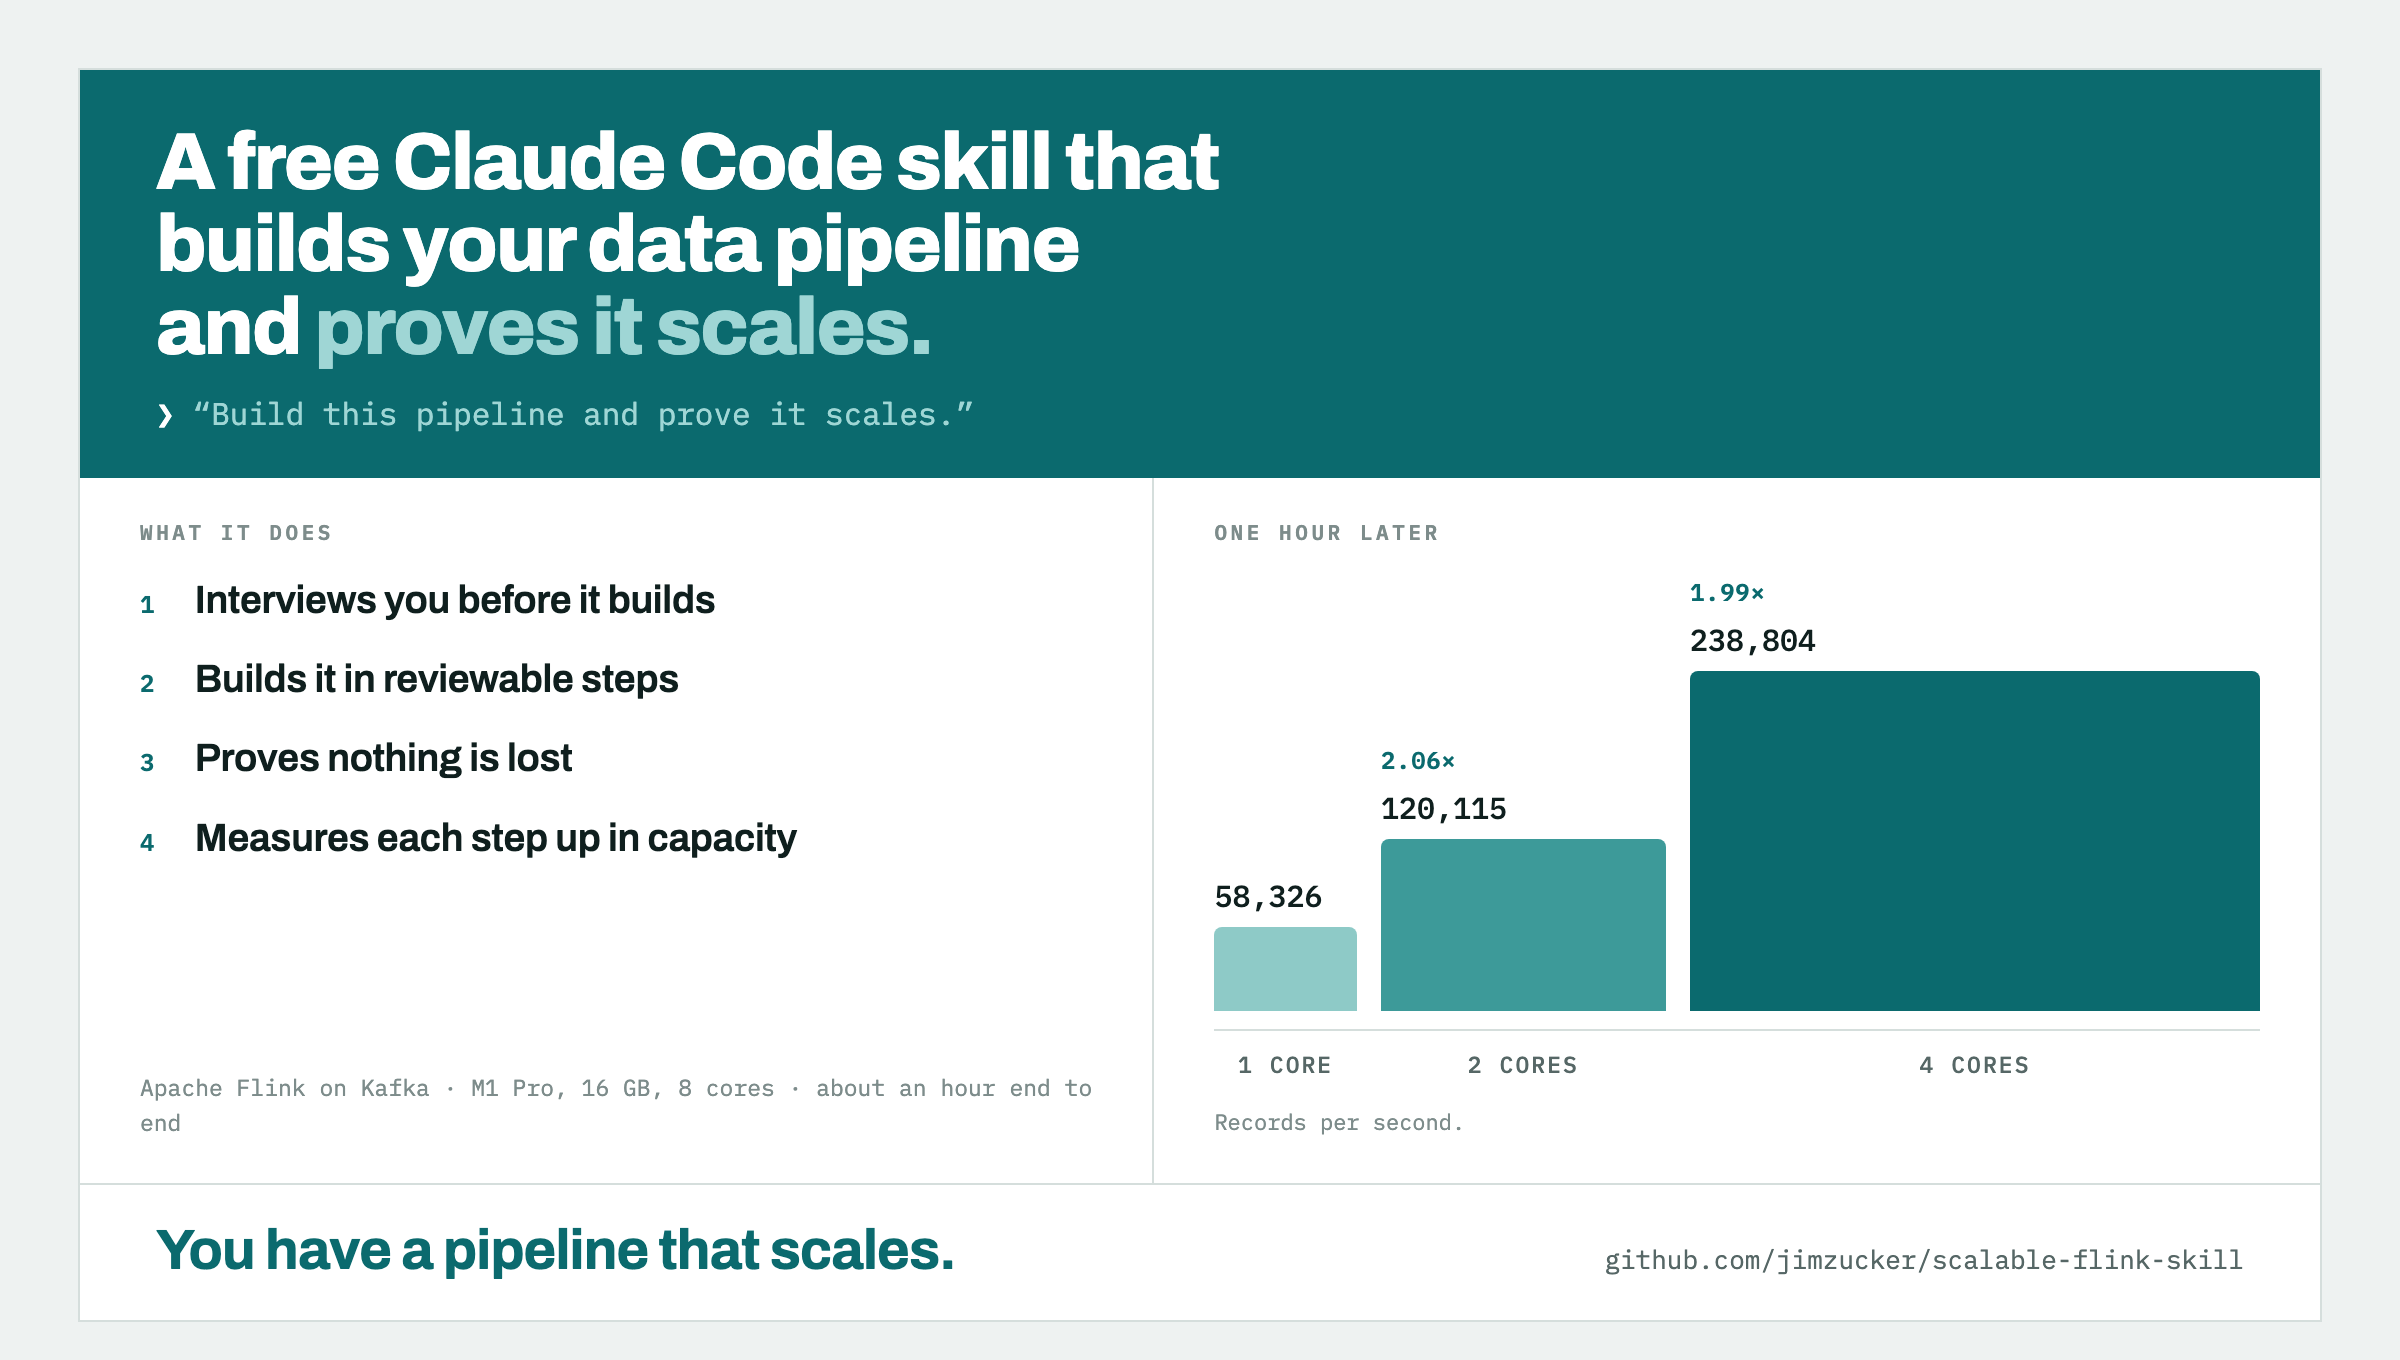
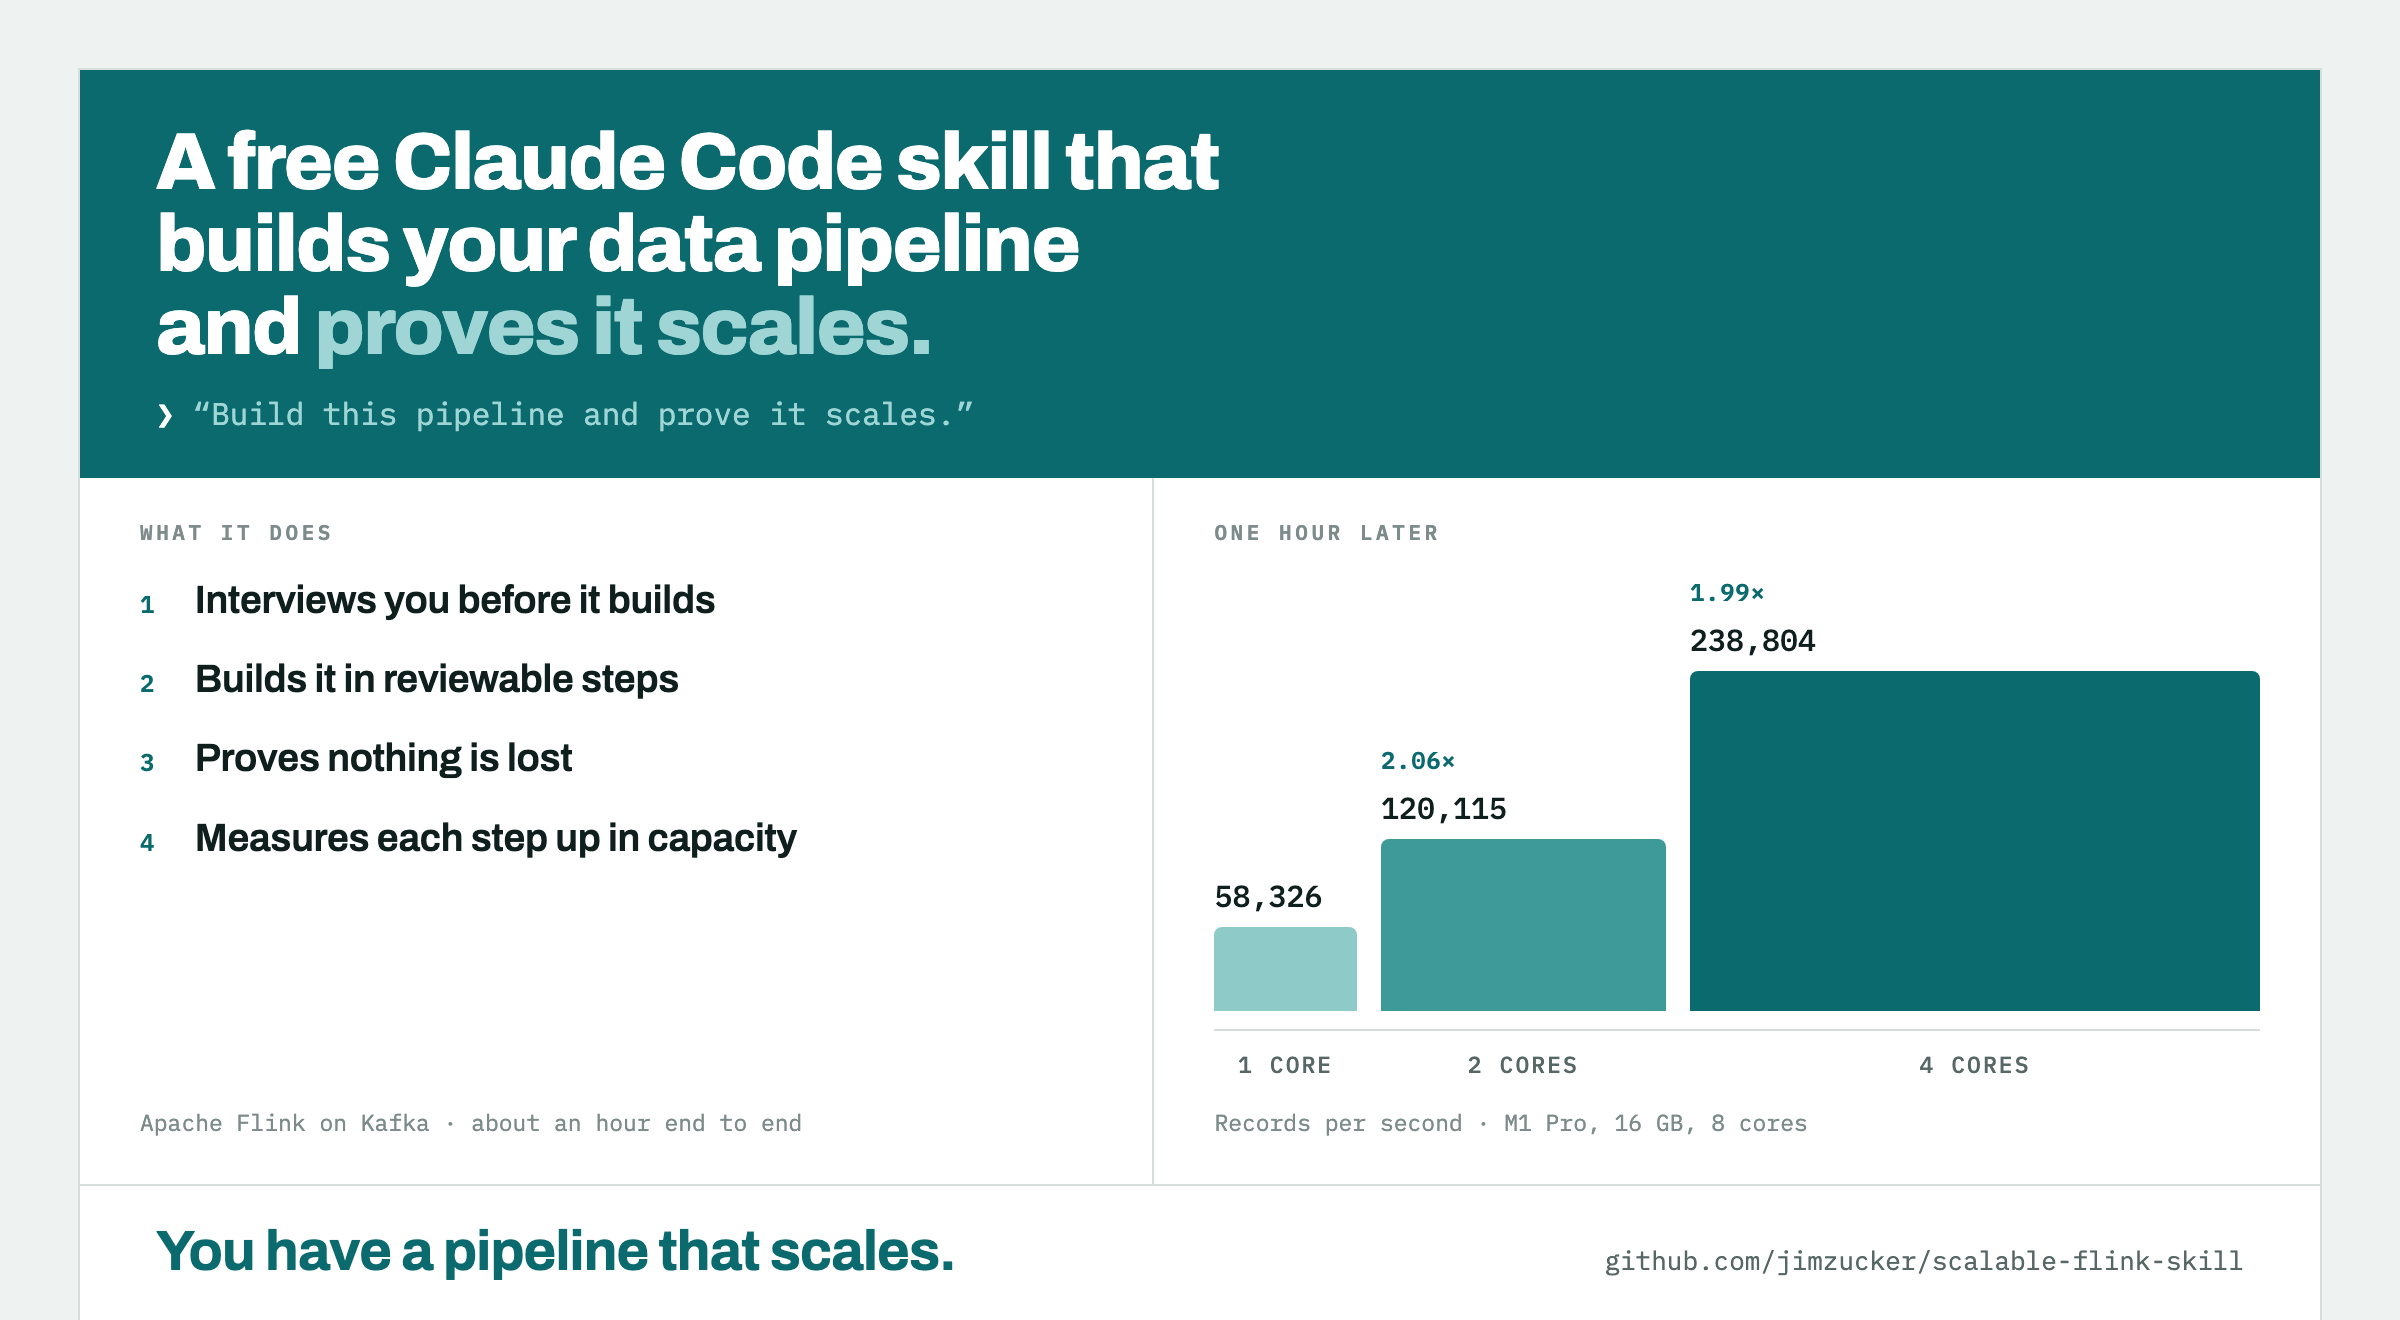
card: machine spec moves to the chart caption, both last lines share a floor
Matches flink-training's copy.

diff --git a/docs/card.html b/docs/card.html
@@ -164,10 +164,11 @@
     color:var(--dim);
   }
   .note{
-    margin:13px 0 0;
+    margin:auto 0 0;
+    padding-top:13px;
     font-family:var(--mono);
-    font-size:11px;
-    line-height:1.55;
+    font-size:11.5px;
+    line-height:1.5;
     color:var(--dim);
   }
 
@@ -219,7 +220,7 @@
         <div class="step"><span class="n">3</span><span class="t">Proves nothing is lost</span></div>
         <div class="step"><span class="n">4</span><span class="t">Measures each step up in capacity</span></div>
       </div>
-      <p class="spec">Apache Flink on Kafka &middot; M1 Pro, 16&nbsp;GB, 8&nbsp;cores &middot; about an hour end to end</p>
+      <p class="spec">Apache Flink on Kafka &middot; about an hour end to end</p>
     </div>
 
     <div class="col">
@@ -249,7 +250,7 @@
         <div style="flex:4">4 cores</div>
       </div>
 
-      <p class="note">Records per second.</p>
+      <p class="note">Records per second &middot; M1 Pro, 16&nbsp;GB, 8&nbsp;cores</p>
     </div>
 
   </section>
